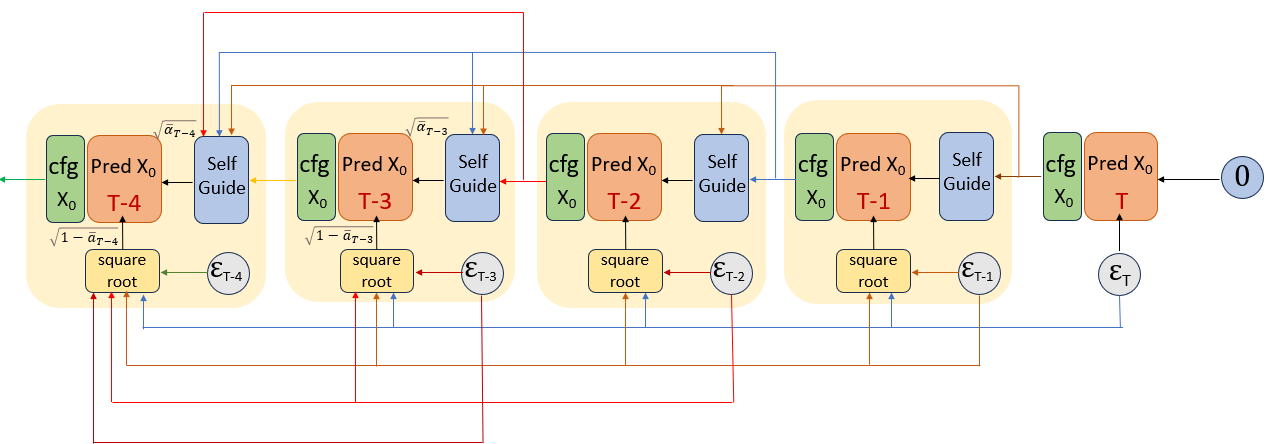
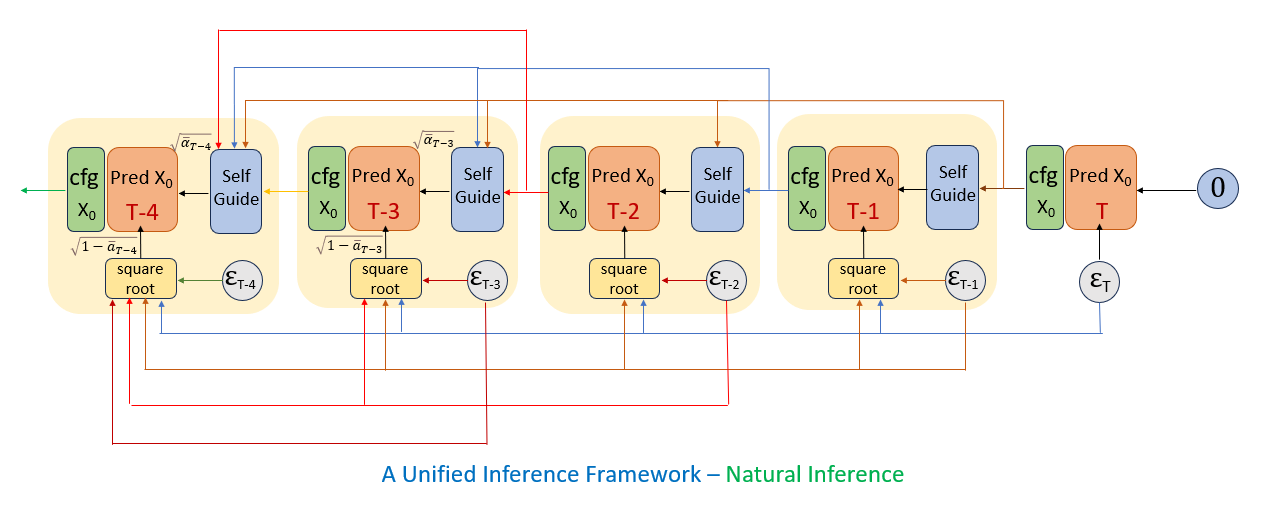
add analyze heun; add requirements.txt

diff --git a/SD3NaturalInference.py b/SD3NaturalInference.py
@@ -3,15 +3,21 @@ import copy
 import cv2
 
 from diffusers import StableDiffusion3Pipeline
-from Analyze import get_data, make_path, save_image, reshape, center_crop_arr, interleave, gaussian_blur
 from PIL import Image
 import torch
 import numpy as np
 import json
 import pandas as pd
+import os
 
 torch.backends.cuda.matmul.allow_tf32 = False
 torch.backends.cudnn.allow_tf32 = False
+
+
+def make_path(path):
+    path = os.path.abspath(path)
+    os.makedirs(os.path.dirname(path), exist_ok=True)
+    return path
 
 
 def pad(img, length=1):

diff --git a/AnalyzeEulerHeun.py b/AnalyzeEulerHeun.py
@@ -1,6 +1,5 @@
 # # Part of the code is copied from https://github.com/yang-song/score_sde.git
 
-import abc
 import numpy as np
 import torch
 import sympy

diff --git a/Readme.md b/Readme.md
@@ -1,10 +1,27 @@
-<center>
+<div style="text-align: center;">
 	<h1 style="display:block">
 		Rethinking Diffusion Model in High Dimension </span>
     </h1>
-</center>
-</br> </br> </br>
+</div>
+</br>
 
+--------------------
+</br>
 
 
 ![NaturalDiffusion](inference_framework.png)
+
+
+## A Unified Diffusion Model Inference Framework - Natural Inference
+
+**Natural Inference** is a simple framework that unifies most mainstream inference methods, including at least:
+
+- [x] DDPM Ancestral Sampling
+- [x] DDIM
+- [x] SDE Euler
+- [x] ODE Euler
+- [x] Heun
+- [x] DPMSolver
+- [x] DPMSolver++
+- [x] DEIS
+- [x] Flow Matching Euler
